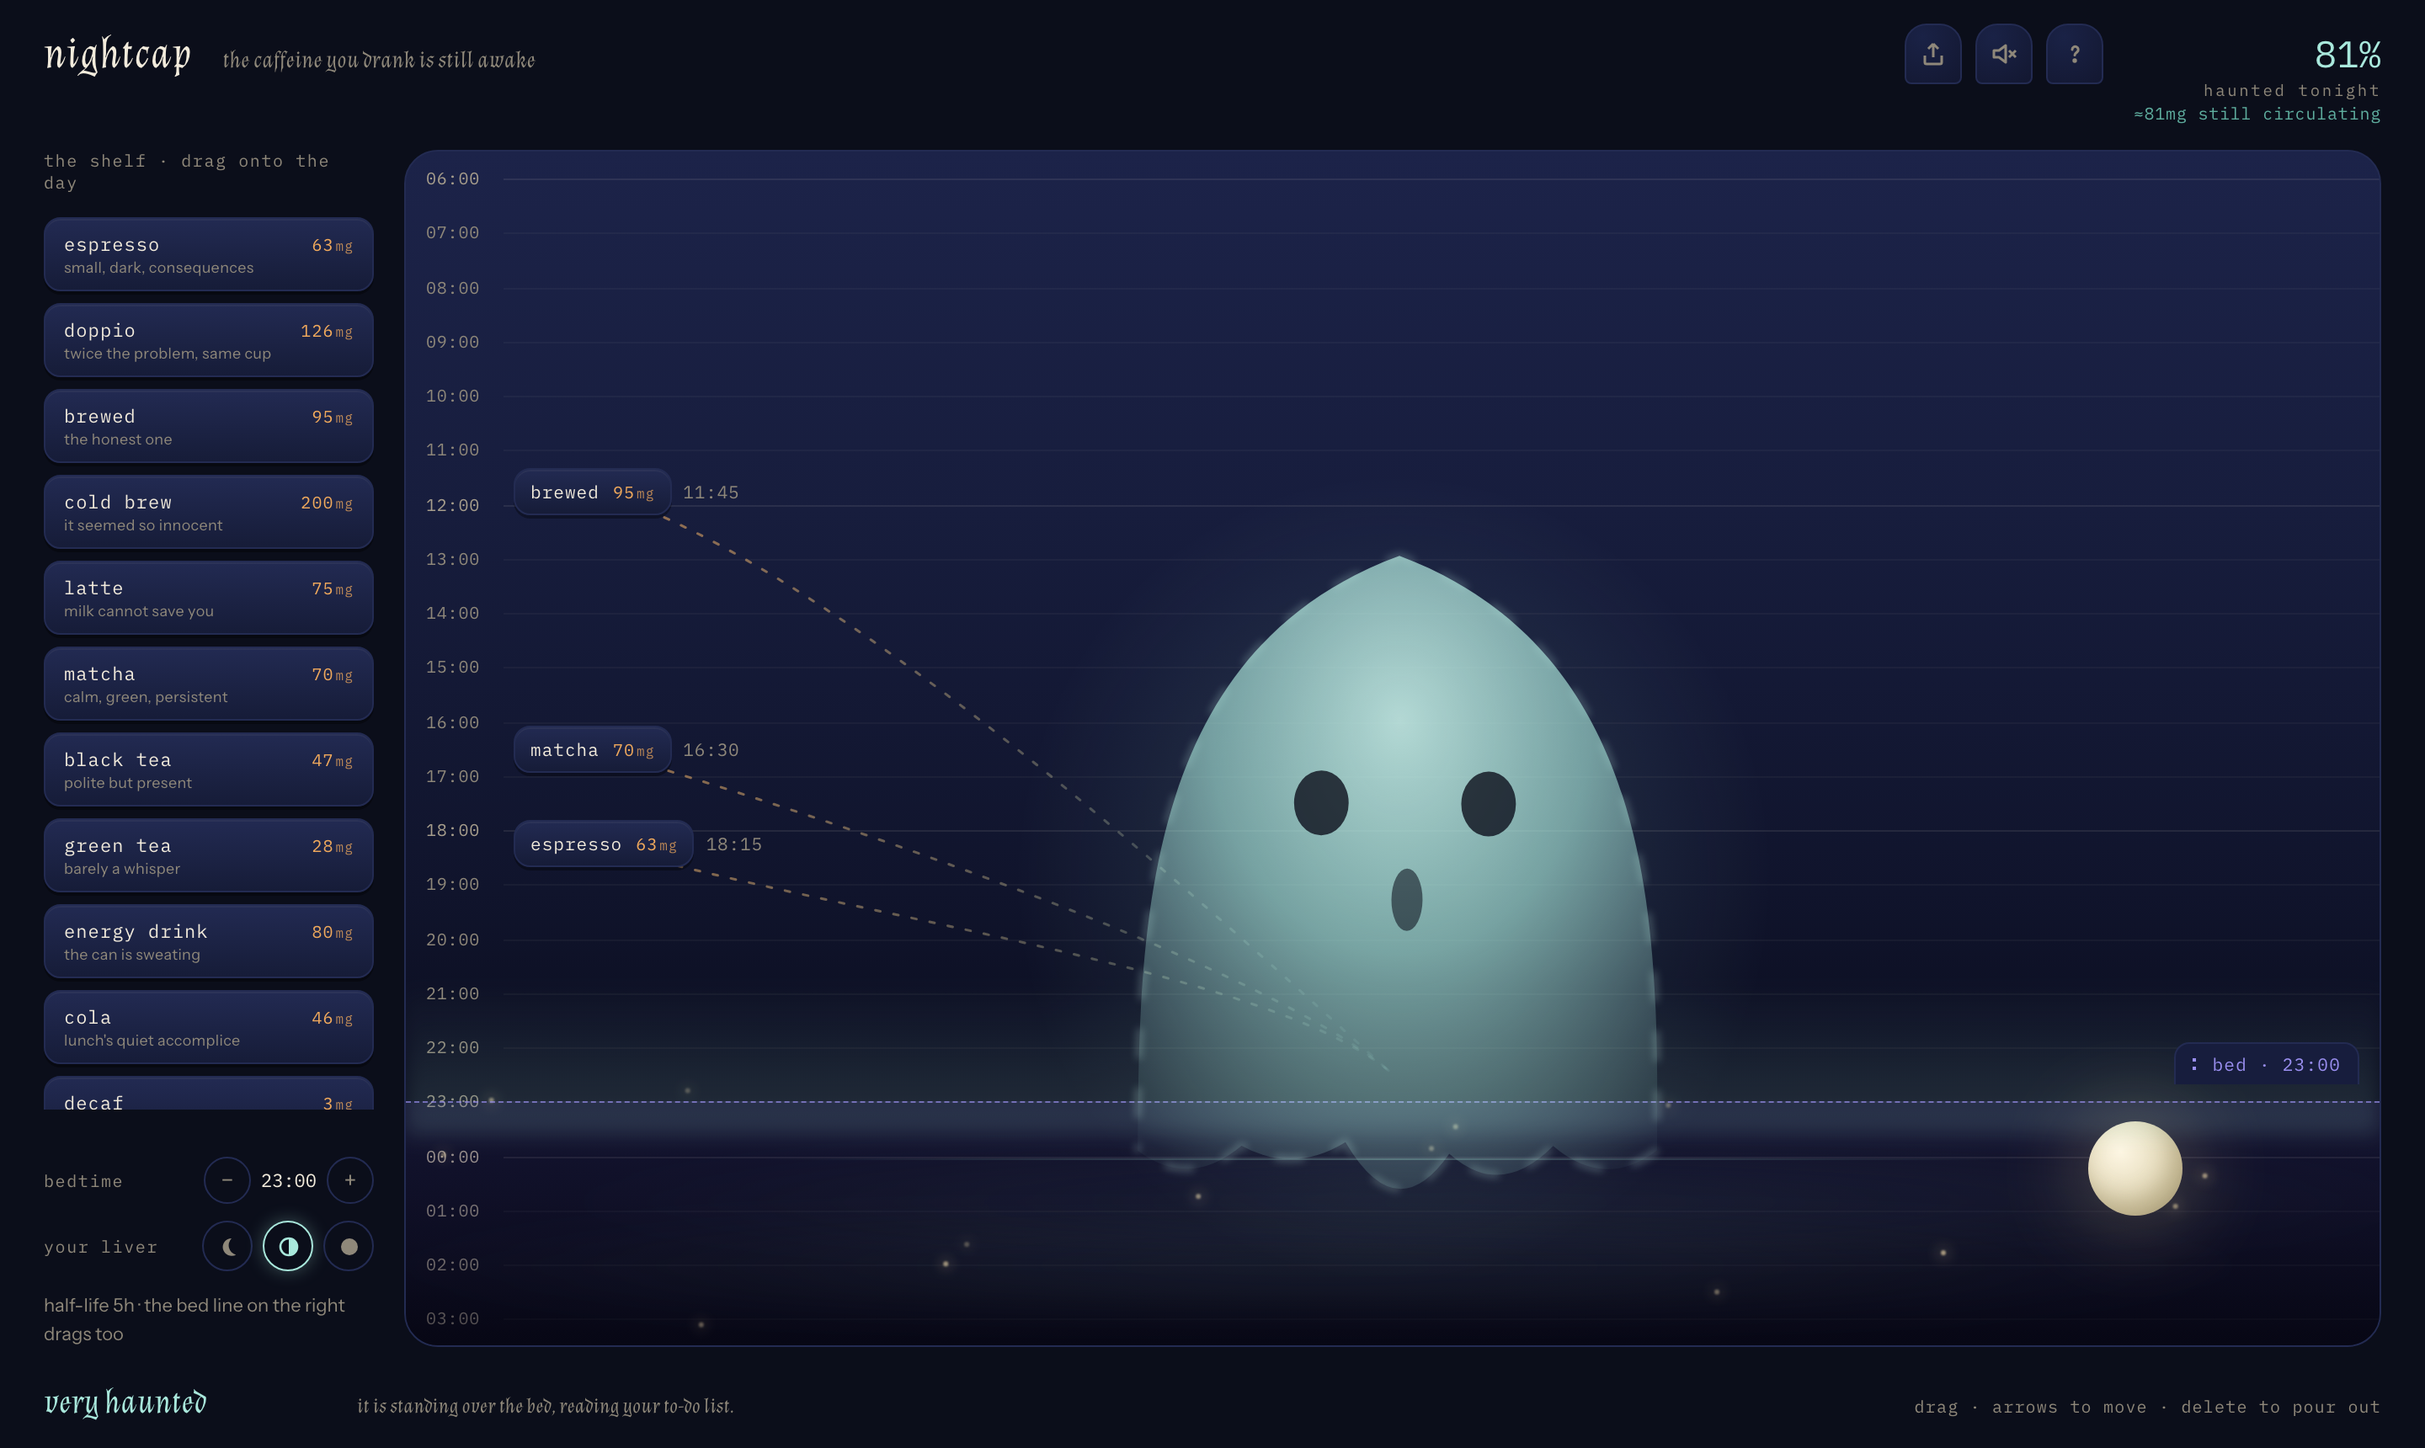
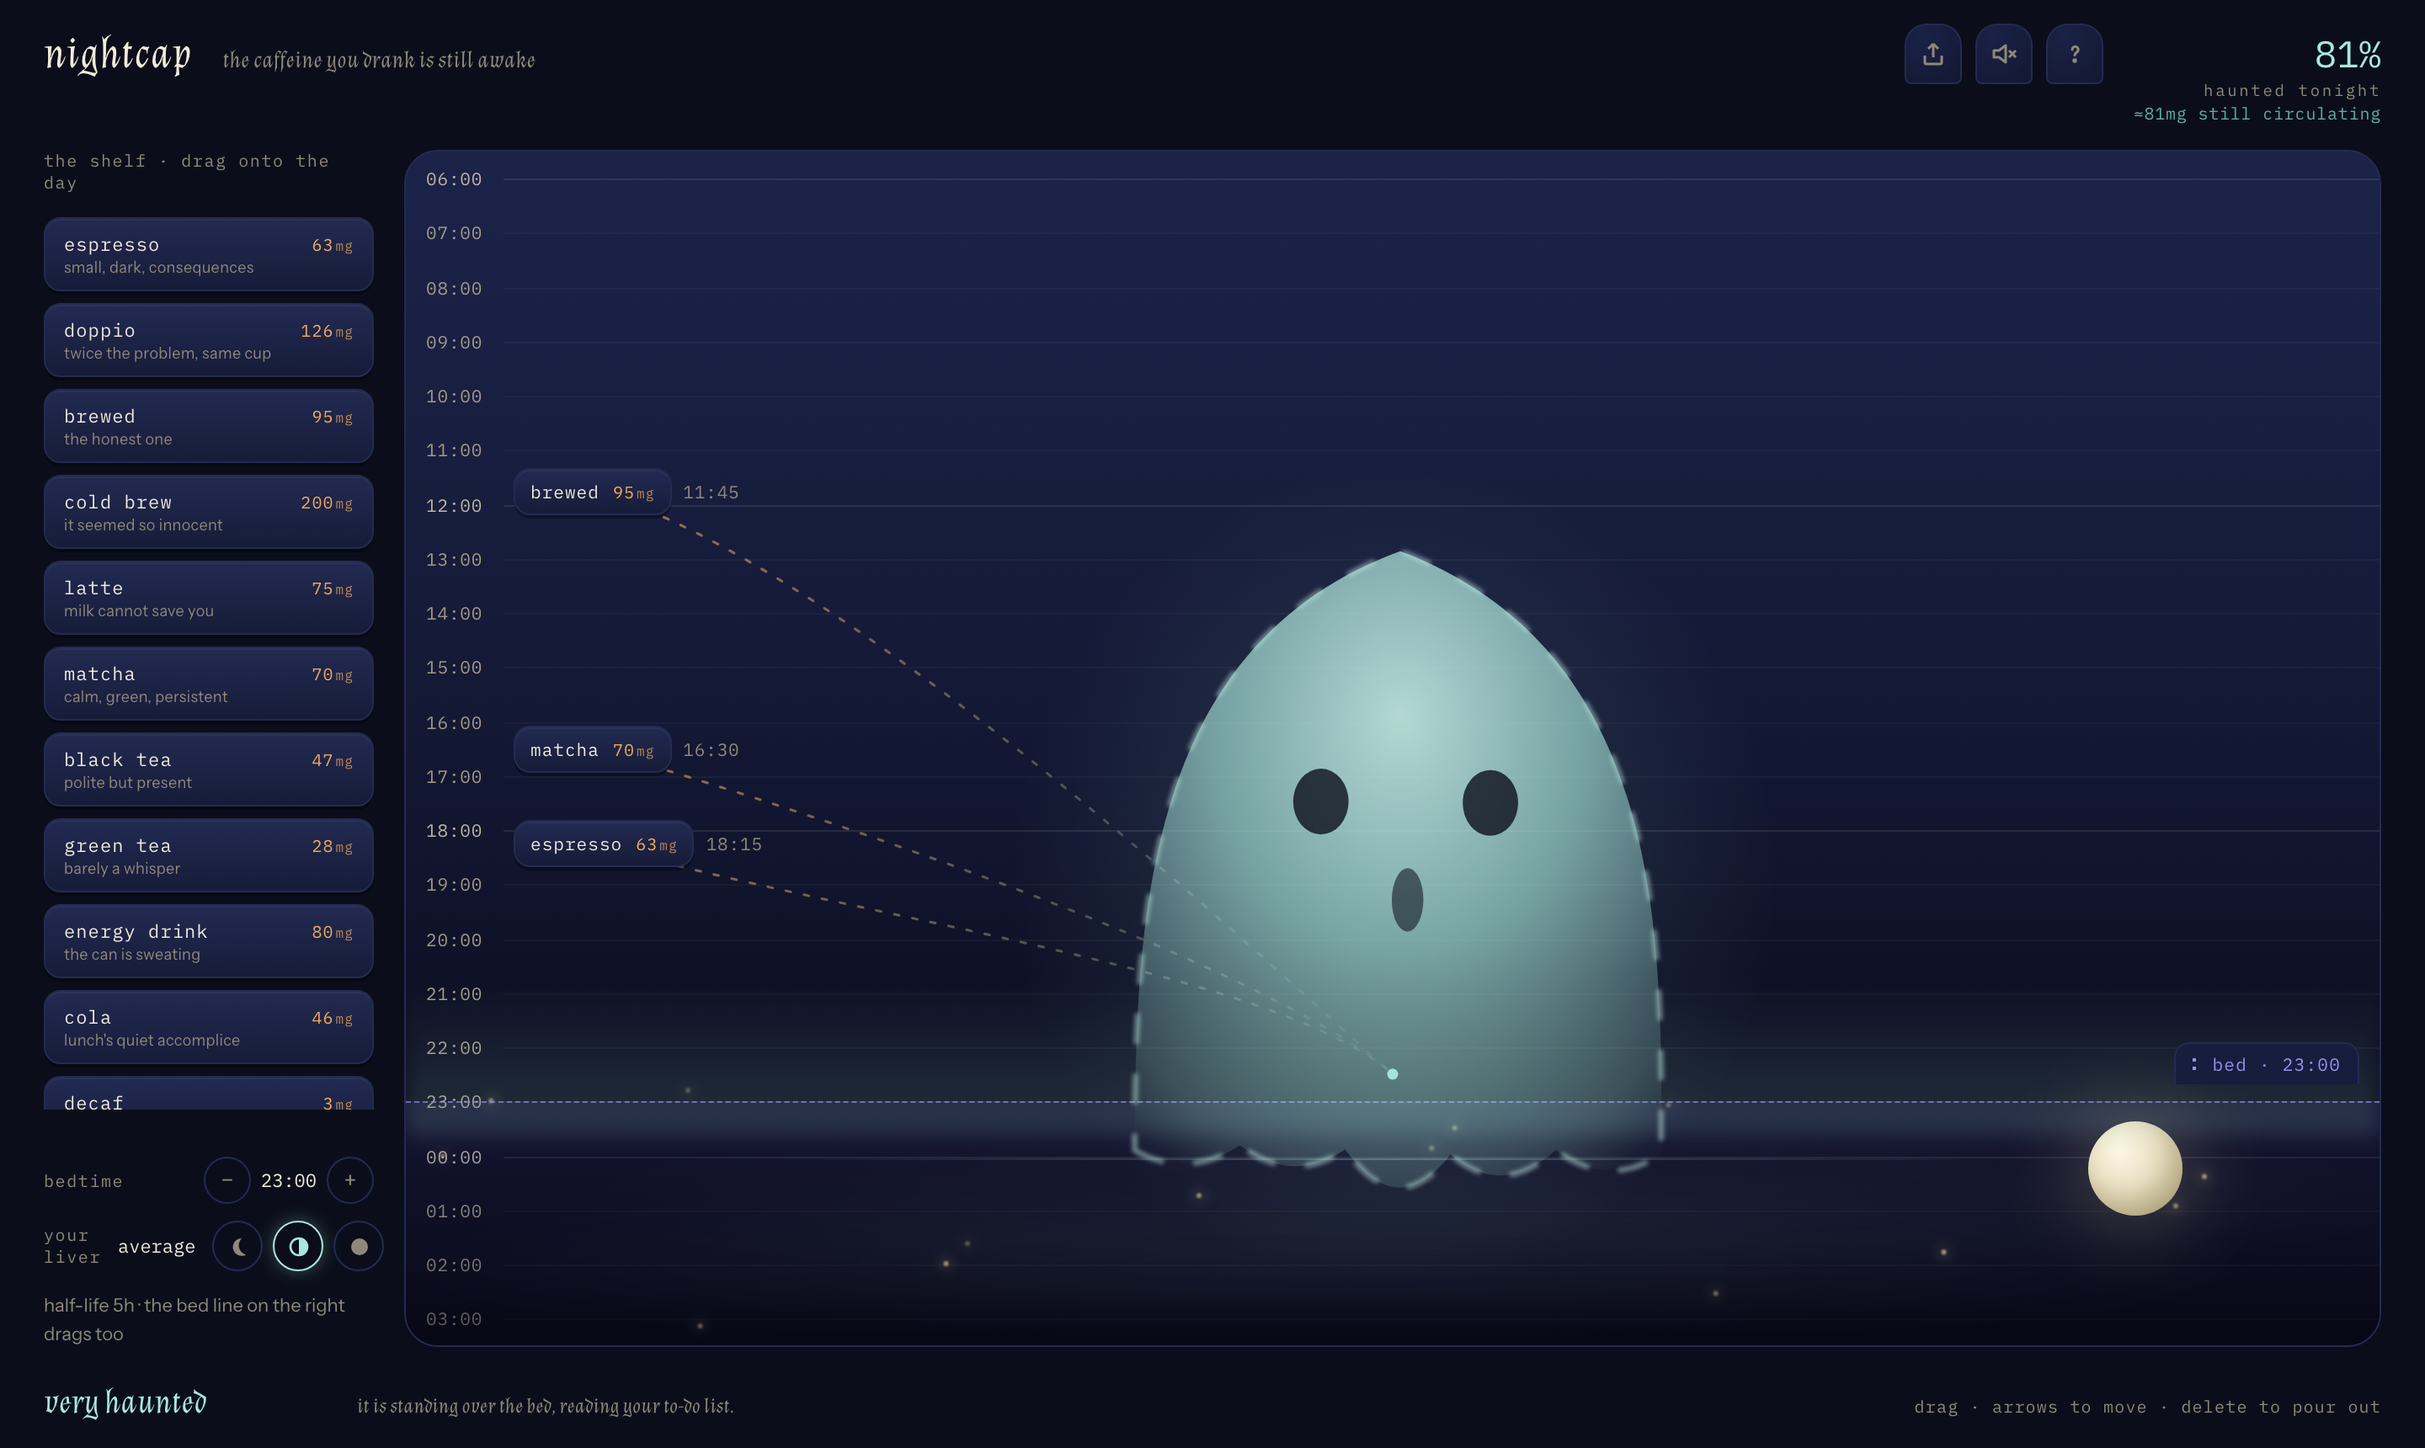
round 3: provisional score, landing outline, ghost face states
- score flips to amber 'if you drop it here' while a drag previews a candidate time
- dashed chip outline marks the lane the chip will land in; drop time moves to the right edge
- ghost gets a content smile at low haunt, crisper rim, calmer premonition flicker
- trails end in a small spectral contact point where they meet the ghost
- 'drop a drink here' invitation in the empty column; empty line hides while previewing
- liver speed named next to the moon dial; armed chip named in the placement hint
- guide instructions switch to the readable sans face; hour labels brighten
- guide ring transitions only its geometry

Generated with [Devin](https://devin.ai)

diff --git a/src/App.tsx b/src/App.tsx
@@ -374,8 +374,10 @@ export default function App() {
           </button>
         </div>
         <div className="scoreblock">
-          <div className="score-num"><NumberFlow value={score} suffix="%" /></div>
-          <div className="score-label">haunted tonight</div>
+          <div className={`score-num ${drag?.snap != null ? "preview" : ""}`}>
+            <NumberFlow value={drag?.snap != null ? previewScore(drag, drag.snap) : score} suffix="%" />
+          </div>
+          <div className="score-label">{drag?.snap != null ? "if you drop it here" : "haunted tonight"}</div>
           {residual >= 1 && <div className="score-mg">≈{Math.round(residual)}mg still circulating</div>}
         </div>
       </header>
@@ -409,6 +411,7 @@ export default function App() {
             </div>
             <div className="setting" style={{ marginTop: 10 }}>
               <span className="rail-label">your liver</span>
+              <span className="val livername">{liver}</span>
               <span className="moondial" role="group" aria-label="caffeine metabolism speed">
                 {(["fast", "average", "slow"] as const).map((l, i) => (
                   <button key={l} className="moonstop" aria-pressed={liver === l} title={`${l} · half-life ${HALF_LIVES[l]}h`}
@@ -467,12 +470,17 @@ export default function App() {
                 </linearGradient>
               </defs>
               {placed.filter((p) => p.minutes <= bedtime).map((p) => (
-                <path
-                  key={p.uid}
-                  d={trailD(p.minutes, laneOf.get(p.uid) ?? 0)}
-                  fill="none" stroke="url(#trailGrad)" strokeWidth="1.5"
-                  strokeDasharray="3 8" strokeLinecap="round" opacity="0.7"
-                />
+                <g key={p.uid}>
+                  <path
+                    d={trailD(p.minutes, laneOf.get(p.uid) ?? 0)}
+                    fill="none" stroke="url(#trailGrad)" strokeWidth="1.5"
+                    strokeDasharray="3 8" strokeLinecap="round" opacity="0.7"
+                  />
+                  <circle
+                    cx={colSize.w * 0.5} cy={bedY - 16} r="3.2"
+                    fill="#a9e8dc" opacity="0.65"
+                  />
+                </g>
               ))}
               {drag?.snap != null && (
                 <path
@@ -520,13 +528,19 @@ export default function App() {
           {drag?.snap != null && (
             <>
               <div className="slotline" style={{ top: `${pct(drag.snap)}%` }} />
-              <div className="slottime" style={{ top: `${pct(drag.snap)}%` }}>{fmtTime(drag.snap)}</div>
+              <div className="slottime drag-time" style={{ top: `${pct(drag.snap)}%` }}>{fmtTime(drag.snap)}</div>
+              <div className="placed landing" style={{ top: `${pct(drag.snap)}%`, left: "64px" }}>
+                <span className="chip">
+                  {DRINKS.find((d) => d.id === activeChipDrink)?.name}
+                  <span className="mg">{DRINKS.find((d) => d.id === activeChipDrink)?.mg}<span className="unit">mg</span></span>
+                </span>
+              </div>
             </>
           )}
           {kbCursor && (
             <>
               <div className="slotline" style={{ top: `${pct(kbCursor.minutes)}%` }} />
-              <div className="slottime" style={{ top: `${pct(kbCursor.minutes)}%` }}>{fmtTime(kbCursor.minutes)} · {matchMedia("(pointer: coarse)").matches ? "tap the day to drop" : "↓↑ to move, ⏎ to drop"}</div>
+              <div className="slottime" style={{ top: `${pct(kbCursor.minutes)}%` }}>{DRINKS.find((d) => d.id === kbCursor.drinkId)?.name} · {fmtTime(kbCursor.minutes)} · {matchMedia("(pointer: coarse)").matches ? "tap the day to drop" : "↓↑ to move, ⏎ to drop"}</div>
             </>
           )}
 
@@ -552,7 +566,10 @@ export default function App() {
             <Ghost state={ghostState.current} />
           </div>
 
-          {score < 5 && (
+          {placed.length === 0 && !drag && !kbCursor && (
+            <div className="drop-hint" style={{ top: "38%" }}>drop a drink here</div>
+          )}
+          {score < 5 && !drag && !kbCursor && (
             <div className="empty-night" style={{ top: `calc(${bedPct}% + 48px)` }}>
               {placed.length === 0 ? "nothing is haunting you yet. the drinks are on the shelf." : "the night is clear."}
             </div>

diff --git a/src/index.css b/src/index.css
@@ -61,6 +61,7 @@ button { font: inherit; color: inherit; background: none; border: 0; cursor: poi
   font-family: var(--font-mono); font-size: 10px; letter-spacing: 0.04em;
   color: var(--spectral-dim); margin-top: 3px;
 }
+.score-num.preview { color: var(--amber); }
 .iconrow { display: flex; gap: 8px; align-items: center; }
 /* the utility cluster reads as little ghosts: domed top, flat hem */
 .iconbtn {
@@ -160,12 +161,12 @@ button { font: inherit; color: inherit; background: none; border: 0; cursor: poi
 .hourrow { position: absolute; left: 0; right: 0; pointer-events: none; }
 .hourlabel {
   position: absolute; left: 12px; top: 0; transform: translateY(-50%);
-  font-family: var(--font-mono); font-size: 10px; color: var(--bone-dim);
+  font-family: var(--font-mono); font-size: 10.5px; color: #a39a88;
   letter-spacing: 0.04em;
 }
 .hourline { position: absolute; left: 58px; right: 0; top: 0; height: 1px; background: rgba(242, 235, 220, 0.045); }
-.hourrow.major .hourline { background: rgba(242, 235, 220, 0.09); }
-.hourrow.major .hourlabel { color: #a89f8d; }
+.hourrow.major .hourline { background: rgba(242, 235, 220, 0.1); }
+.hourrow.major .hourlabel { color: #beb5a1; }
 
 .nightzone {
   position: absolute; left: 0; right: 0; bottom: 0;
@@ -246,6 +247,12 @@ button { font: inherit; color: inherit; background: none; border: 0; cursor: poi
   letter-spacing: 0.04em;
 }
 .placed.drag-src { opacity: 0.35; }
+/* the landing outline: a dashed ghost of the chip at the candidate time */
+.placed.landing { pointer-events: none; }
+.placed.landing .chip {
+  border-style: dashed; border-color: var(--amber-dim);
+  background: none; box-shadow: none; color: var(--bone-dim);
+}
 .placed.in-night { opacity: 0.42; filter: saturate(0.4); }
 .placed.in-night .when::after { content: " · too late"; color: var(--spectral-dim); }
 .placed:hover .chip { border-color: var(--amber-dim); }
@@ -269,6 +276,7 @@ button { font: inherit; color: inherit; background: none; border: 0; cursor: poi
   font-family: var(--font-mono); font-size: 11px; color: var(--amber);
   letter-spacing: 0.05em; pointer-events: none;
 }
+.slottime.drag-time { left: auto; right: 12px; transform: translateY(6px); }
 
 /* trails: amber threads sinking from each drink to the ghost */
 .trails { position: absolute; inset: 0; width: 100%; height: 100%; pointer-events: none; display: block; }
@@ -323,6 +331,15 @@ button { font: inherit; color: inherit; background: none; border: 0; cursor: poi
   pointer-events: none;
 }
 
+/* the empty column keeps a quiet invitation where a drink would land */
+.drop-hint {
+  position: absolute; left: 50%; transform: translate(-50%, -50%);
+  padding: 7px 14px; border-radius: 999px;
+  border: 1px dashed rgba(240, 169, 92, 0.4);
+  font-family: var(--font-mono); font-size: 10.5px; letter-spacing: 0.05em;
+  color: var(--amber-dim); pointer-events: none; white-space: nowrap;
+}
+
 /* empty night */
 .empty-night {
   position: absolute; left: 0; right: 0; top: 14px;
@@ -362,7 +379,8 @@ button { font: inherit; color: inherit; background: none; border: 0; cursor: poi
   border-radius: 14px;
   box-shadow: 0 0 0 4000px rgba(5, 6, 15, 0.55), 0 0 24px rgba(169, 232, 220, 0.35);
   animation: guidering 1.8s var(--ease-out) infinite;
-  transition: all 300ms var(--ease-out);
+  transition: left 300ms var(--ease-out), top 300ms var(--ease-out),
+              width 300ms var(--ease-out), height 300ms var(--ease-out);
 }
 @keyframes guidering {
   0%, 100% { box-shadow: 0 0 0 4000px rgba(5, 6, 15, 0.55), 0 0 24px rgba(169, 232, 220, 0.35); }
@@ -370,9 +388,9 @@ button { font: inherit; color: inherit; background: none; border: 0; cursor: poi
 }
 .guide-bubble {
   position: fixed; z-index: 71; max-width: 250px;
-  font-family: var(--font-display); font-style: italic;
-  font-size: 17px; line-height: 1.35; color: var(--bone);
-  text-shadow: 0 2px 12px rgba(0, 0, 0, 0.8);
+  font-family: var(--font-ui);
+  font-size: 15px; font-weight: 500; line-height: 1.4; color: var(--bone);
+  text-shadow: 0 2px 12px rgba(0, 0, 0, 0.85);
 }
 .guide-bubble .step { font-family: var(--font-mono); font-style: normal; font-size: 9.5px; letter-spacing: 0.14em; color: var(--spectral-dim); display: block; margin-bottom: 5px; }
 .guide-skip {

diff --git a/src/ghost/Ghost.tsx b/src/ghost/Ghost.tsx
@@ -40,14 +40,15 @@ export function Ghost({ state }: { state: GhostState }) {
       <radialGradient id="ncBody" cx="50%" cy="26%" r="82%">
         <stop offset="0%" stop-color="#cdf7ee" stop-opacity="0.98"/>
         <stop offset="45%" stop-color="#a9e8dc" stop-opacity="0.72"/>
-        <stop offset="100%" stop-color="#a9e8dc" stop-opacity="0.05"/>
+        <stop offset="88%" stop-color="#a9e8dc" stop-opacity="0.22"/>
+        <stop offset="100%" stop-color="#a9e8dc" stop-opacity="0.02"/>
       </radialGradient>
       <radialGradient id="ncAura" cx="50%" cy="50%" r="50%">
         <stop offset="0%" stop-color="#a9e8dc" stop-opacity="0.30"/>
         <stop offset="70%" stop-color="#a9e8dc" stop-opacity="0.08"/>
         <stop offset="100%" stop-color="#a9e8dc" stop-opacity="0"/>
       </radialGradient>
-      <filter id="ncSoft"><feGaussianBlur stdDeviation="1.1"/></filter>`;
+      <filter id="ncSoft"><feGaussianBlur stdDeviation="0.55"/></filter>`;
     const aura = mk<SVGEllipseElement>("ellipse", { fill: "url(#ncAura)" });
     const edge = mk<SVGPathElement>("path", {
       fill: "none", stroke: "#cdf7ee", "stroke-width": "1.4",
@@ -57,7 +58,12 @@ export function Ghost({ state }: { state: GhostState }) {
     const eyeL = mk<SVGEllipseElement>("ellipse", { fill: "#0b0e1a", opacity: "0" });
     const eyeR = mk<SVGEllipseElement>("ellipse", { fill: "#0b0e1a", opacity: "0" });
     const mouth = mk<SVGEllipseElement>("ellipse", { fill: "#0b0e1a", opacity: "0" });
-    svg.append(defs, aura, edge, body, eyeL, eyeR, mouth);
+    // a faint content smile while the haunting is still small
+    const smile = mk<SVGPathElement>("path", {
+      fill: "none", stroke: "#0b0e1a", "stroke-width": "2.2",
+      "stroke-linecap": "round", opacity: "0",
+    });
+    svg.append(defs, aura, edge, body, eyeL, eyeR, mouth, smile);
 
     // animation state kept across frames
     let appear = 0; // 0 hidden -> 1 fully present
@@ -132,10 +138,10 @@ export function Ghost({ state }: { state: GhostState }) {
       edge.setAttribute("stroke-dashoffset", String(-edgeDash));
 
       // --- opacity by mode ---
-      const flicker = s.mode === "premonition" && motion ? 0.55 + 0.45 * Math.sin(w * 11) : 1;
+      const flicker = s.mode === "premonition" && motion ? 0.72 + 0.28 * Math.sin(w * 6.5) : 1;
       const bodyOp = clamp01(appear * (0.28 + h * 0.72) * flicker);
       body.setAttribute("opacity", bodyOp.toFixed(3));
-      edge.setAttribute("opacity", (bodyOp * (s.mode === "premonition" ? 0.9 : 0.35)).toFixed(3));
+      edge.setAttribute("opacity", (bodyOp * (s.mode === "premonition" ? 0.9 : 0.55)).toFixed(3));
       aura.setAttribute("cx", "80");
       aura.setAttribute("cy", "95");
       aura.setAttribute("rx", String(78 + h * 30));
@@ -168,9 +174,13 @@ export function Ghost({ state }: { state: GhostState }) {
       mouth.setAttribute("cy", String(ey + 26));
       mouth.setAttribute("rx", "4.2"); mouth.setAttribute("ry", String(6 + h * 3));
       mouth.setAttribute("opacity", mOp.toFixed(3));
+      // low haunt: a faint content smile instead of the worried mouth
+      const sOp = h <= 0.4 && !s.idle ? bodyOp * 0.5 : 0;
+      smile.setAttribute("d", `M ${ex - 8} ${ey + 24} Q ${ex} ${ey + 31} ${ex + 8} ${ey + 24}`);
+      smile.setAttribute("opacity", sOp.toFixed(3));
 
       const tx = `translate(${80 + jitX} ${100 + breathe + loom * 9}) rotate(${lean * 0.4 + jitX * 0.3} 80 130) scale(${scale}) translate(-80 -100)`;
-      for (const el of [aura, edge, body, eyeL, eyeR, mouth]) {
+      for (const el of [aura, edge, body, eyeL, eyeR, mouth, smile]) {
         el.setAttribute("transform", tx);
       }
       raf = requestAnimationFrame(tick);
